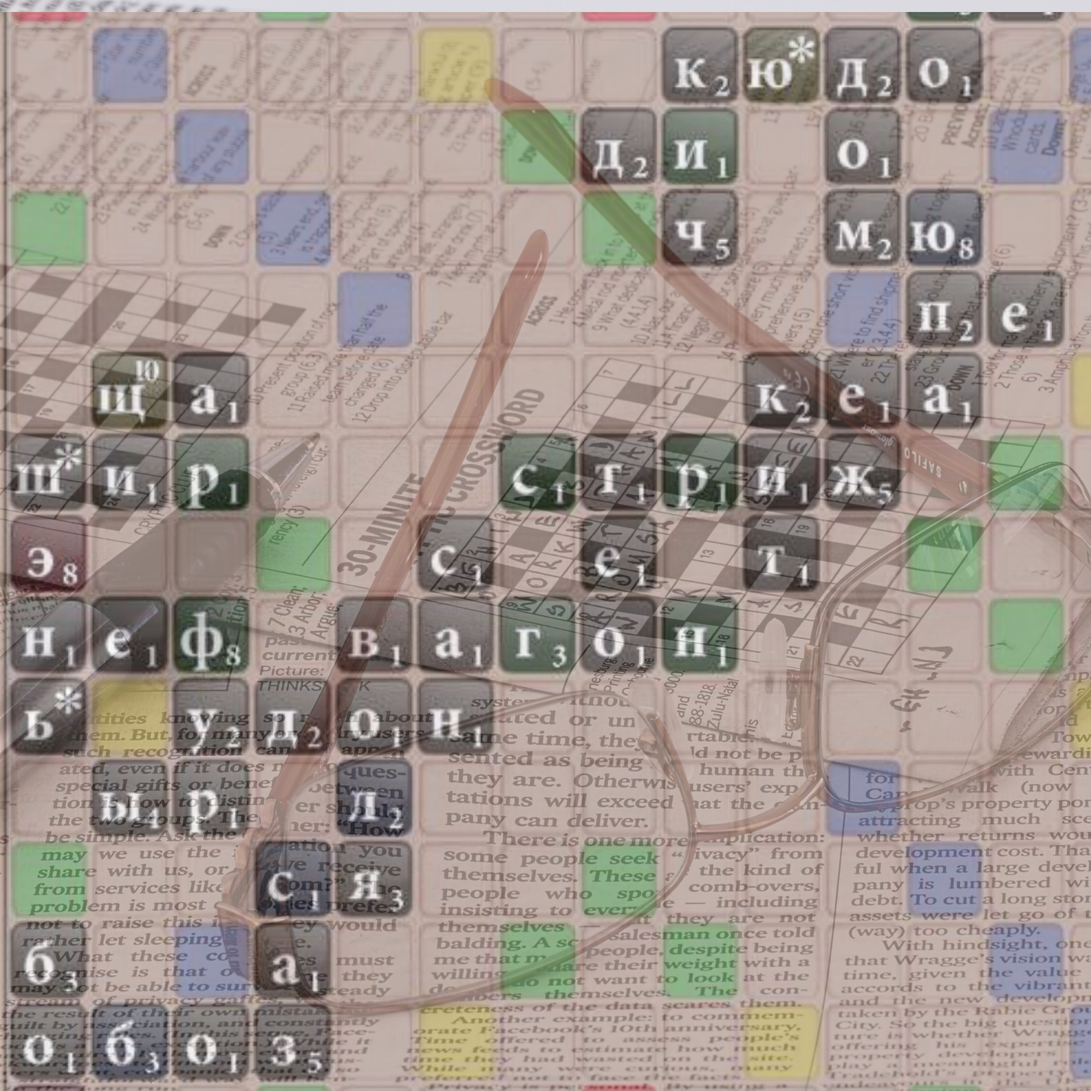
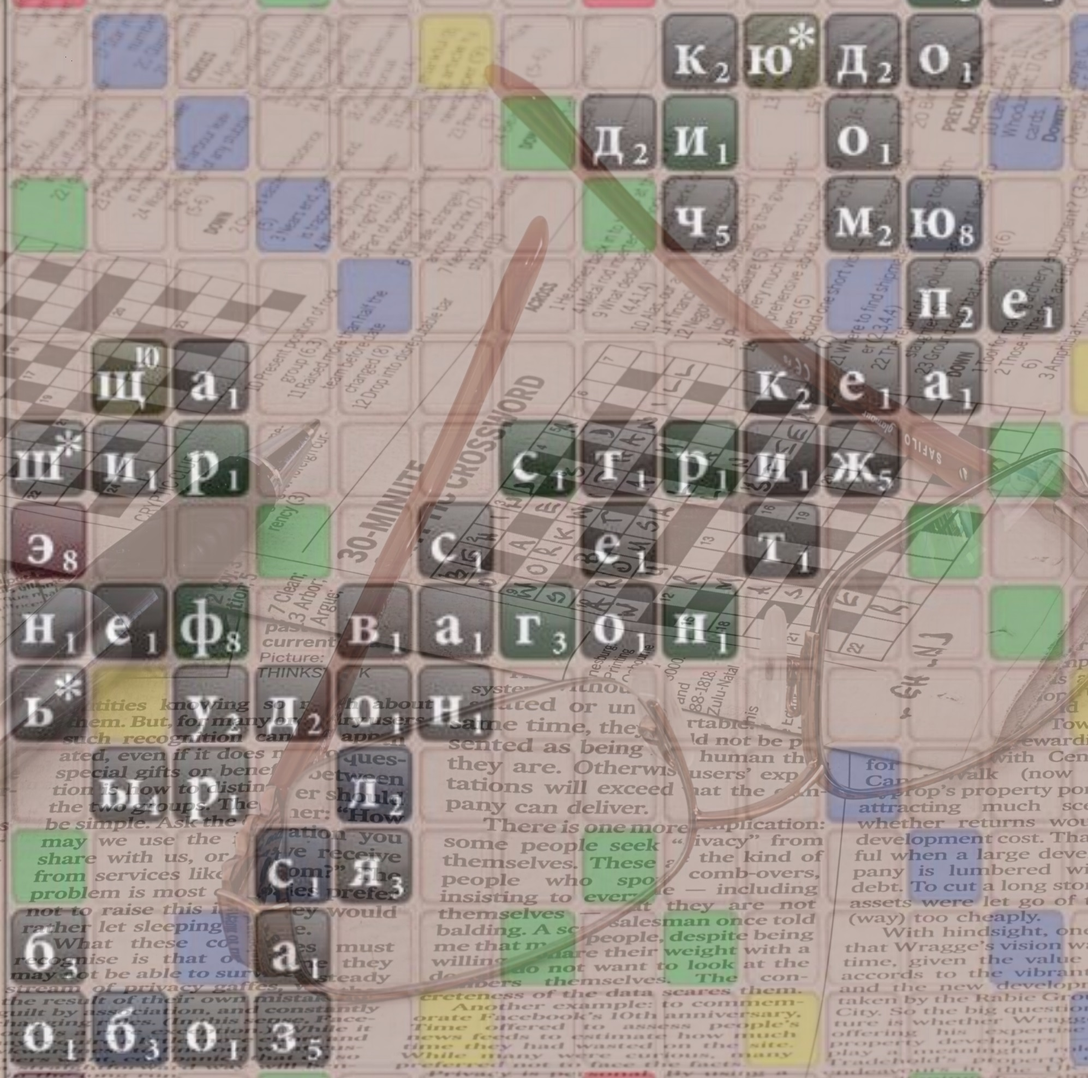
CLUB-256 промежуточный. refactoring, fixes

diff --git a/dev1.0.1.2/preloadFunction.js b/dev1.0.1.2/preloadFunction.js
@@ -79,7 +79,7 @@ function () {
     this.load.atlas('megaset', 'img/letters.png', '//xn--d1aiwkc2d.club/img/letters.json');
     this.load.atlas('digits', 'img/letters.png', '//xn--d1aiwkc2d.club/img/nums.json');
     this.load.atlas('megaset_english', '//xn--d1aiwkc2d.club/img/letters_english.png', '//xn--d1aiwkc2d.club/img/letters_english.json');
-    this.load.image('back', '//xn--d1aiwkc2d.club/img/background.jpg');
+    this.load.image('back', '//xn--d1aiwkc2d.club/img/background_test.jpg');
 
     for (var k in buttons)
         if ('modes' in buttons[k])

diff --git a/dev1.0.1.2/main.js b/dev1.0.1.2/main.js
@@ -33,6 +33,9 @@ var UIScene = new Phaser.Class({
 var game = new Phaser.Game(config);
 
 document.body.style.backgroundColor = "#dddddd";
+// experiments with background
+//document.body.style.backgroundColor = "#b3b1ad";
+//document.body.style.backgroundImage="url('https://xn--d1aiwkc2d.club/img/background_repeat_small.jpg')";
 
 //<?php include('ysdk.js')?>
 

diff --git a/dev1.0.1.2/php/EruditGame.php b/dev1.0.1.2/php/EruditGame.php
@@ -1087,7 +1087,7 @@ LIMIT 40";
                 isset($userCookie['userID']) ? self::hash_str_2_int($userCookie['userID']) : false
             );
 
-            return count($ratings) ? $ratings[0] : false;
+            return count($ratings ?: []) ? $ratings[0] : false;
         }
 
         if (!($ratings[$userCookie] = Cache::get('erudit.rating_cache_' . $userCookie))) {
@@ -1429,6 +1429,7 @@ LIMIT 40";
 
             return $this->checkGameStatus();
         }
+
         try {
             $desk = Cache::get('erudit.current_game_' . $this->currentGame);
             // Текущая доска
@@ -1464,7 +1465,7 @@ LIMIT 40";
             $this->destruct();
             //Сохранили статус игры
 
-            return json_encode(array_merge($saveDesk, [$this->gameStatus['users'][$this->numUser]['fishki']]));
+            return json_encode(array_merge($saveDesk ?: [], [$this->gameStatus['users'][$this->numUser]['fishki']]));
             //Сделать через отправку статуса
         }
 

diff --git a/dev1.0.1.2/php/RuLangProvider.php b/dev1.0.1.2/php/RuLangProvider.php
@@ -203,7 +203,7 @@ class Ru
 
         foreach ($fishki as $nn => $fishka)
             if ($fishka[3] !== false) {
-                foreach ($zvezdy as $num => $zvezda)
+                foreach ($zvezdy ?: [] as $num => $zvezda)
                     if ($zvezda[2] === $fishka[3]) {
                         $cells[$zvezda[0]][$zvezda[1]][2] = false;
                         $cells[$zvezda[0]][$zvezda[1]][1] = $fishka[3];
@@ -214,7 +214,7 @@ class Ru
 
         foreach ($bad_fishki as $nn => $bfishka)
             if ($bfishka[3] !== false)
-                foreach ($zvezdy as $num => $zvezda)
+                foreach ($zvezdy ?: [] as $num => $zvezda)
                     if ($zvezda[2] === $bfishka[3]) {
                         $cells[$zvezda[0]][$zvezda[1]][2] = false;
                         unset($zvezda[$num]);
